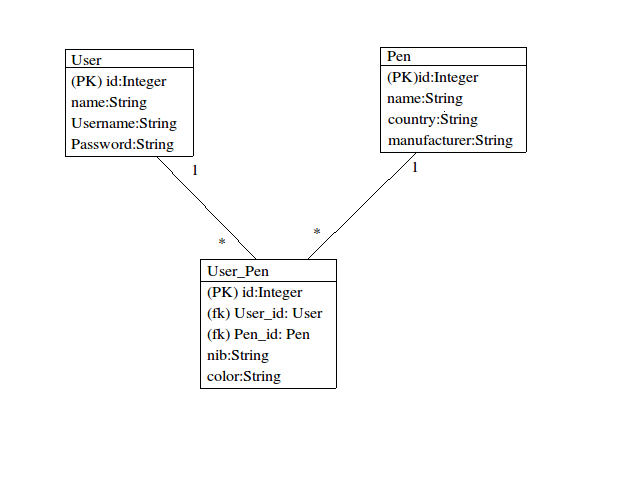
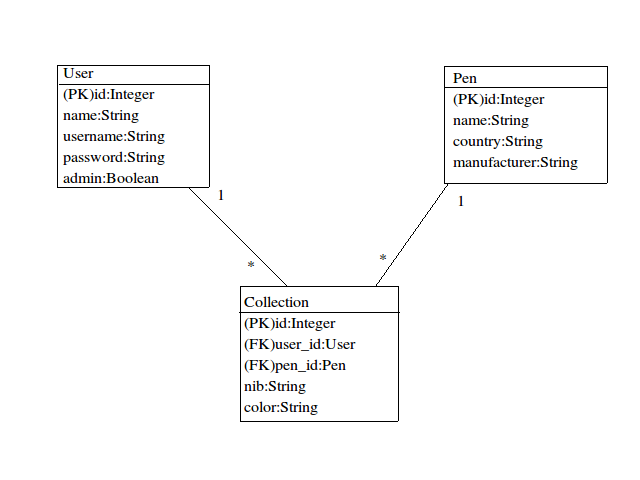
päivitetty dokumentaatio

diff --git a/README.md b/README.md
@@ -5,9 +5,13 @@
 FountainPenManiac on sivu ihmisille, jotka ovat kiinnostuneet täytekynistä.  
 Sivulle voi rekisteröidä uusia käyttäjiä ja kirjautua olemassa olevilla.  
 Kirjautunut käyttäjä voi lisätä sivulle kyniä. Kynistä tallennetaan mallin nimi, valmistusmaa ja valmistaja.  
-Sivulla voi selata kyniä ja yksittäisiä kyniä voi myös poistaa.  
-Käyttäjä voi luoda ja ylläpitää omaa kynäkokoelmaa sivulla.  
-Sivulla voi myös seurata muiden käyttäjien kokoelman kasvamista.  
+Käyttäjä voi selata kyniä ja yksittäisiä kyniä voi myös poistaa.  
+Lisäksi käyttäjät voivat muokata valmiiksi lisättyjä kyniä, jos huomaa tehneensä virheen.  
+Käyttäjä voi lisätä omaan kokoelmaan kynän. Omassa kokoelmassa näkyy kynän nimi, kärjen koko ja kynän väri.  
+Sivulla voi myös listata muut käyttäjät ja jokaiseen käyttäjään liitetään hänen kokoelmansa koko.  
+Jos on kirjautunut järjestelmänvalvojana (_admin_) pystyy myös poistamaan käyttäjiä. Tavalliselle käytäjälle ei tätä painiketta näytetä.  
+
+
 
 ## Testaus
 

diff --git a/documentation/kayttotapaukset.md b/documentation/kayttotapaukset.md
@@ -4,4 +4,7 @@
 * Kirjautunut käyttäjä voi lisätä uuden kynän järjestelmään.  
 * Kirjautunut käyttäjä voi listata kaikki järjestelmässä olevat kynät.  
 * Kirjautunut käyttäjä voi poistaa järjestelmästä kyniä.  
-* Kirjautunut käyttäjä voi luoda ja hallinnoida omaa kynäkokoelmaansa.  
+* Kirjautunut käyttäjä voi muokata järjestelmään lisättyjä kyniä.  
+* Kirjautunut käyttäjä voi lisätä omaan kokoelmaansa kyniä.  
+* Kirjautunut käyttäjä voi listata kaikki sivun käyttäjät ja katsoa kuinka monta kynää kunkin kokoelmassa on.  
+* Järjestelmän valvoja (_admin_) psytyy poistamaan käyttäjiä sivulta.  
